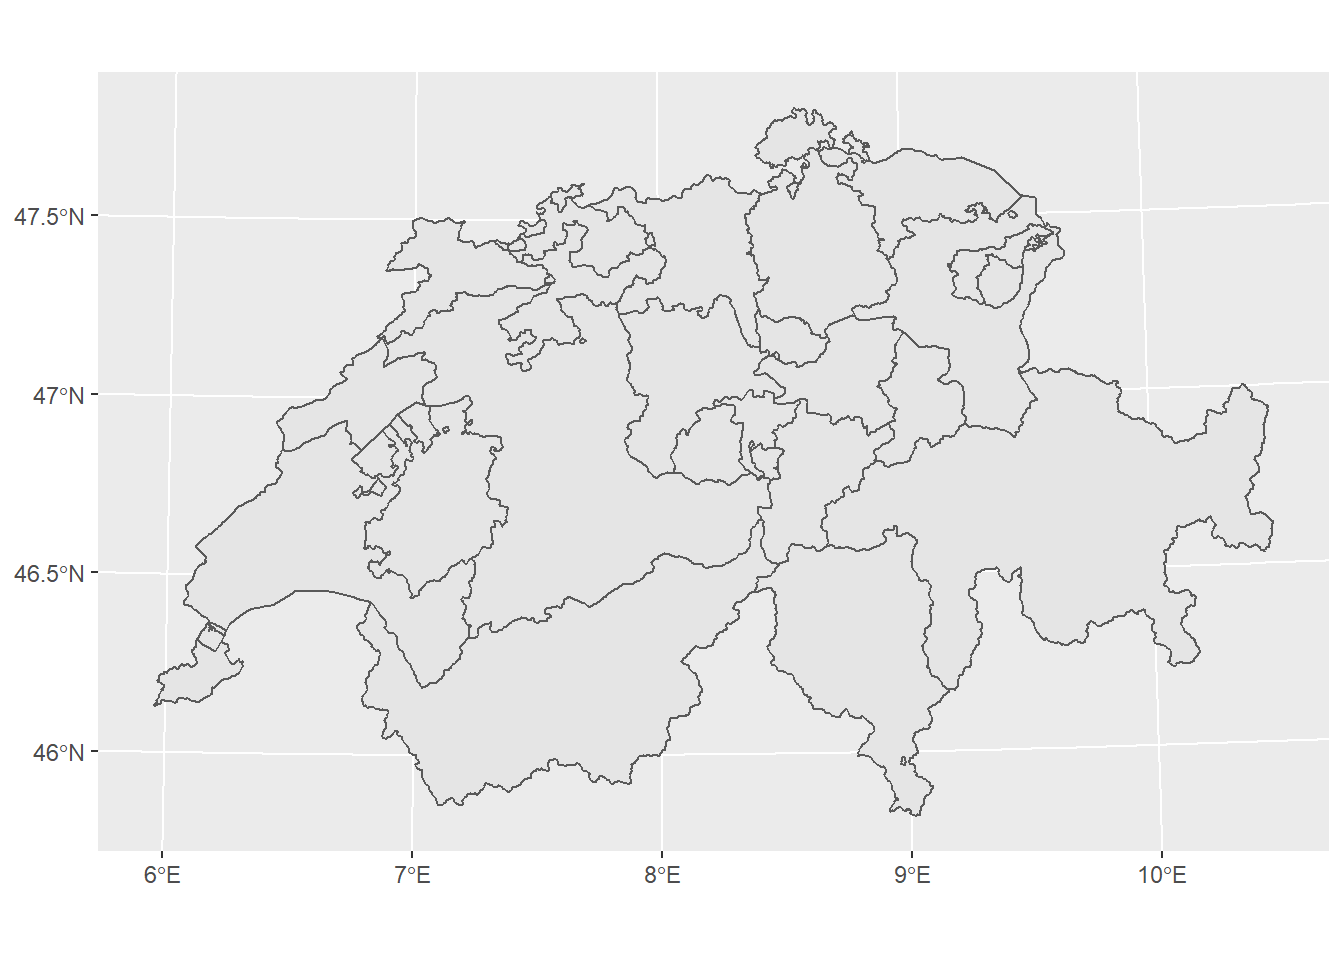
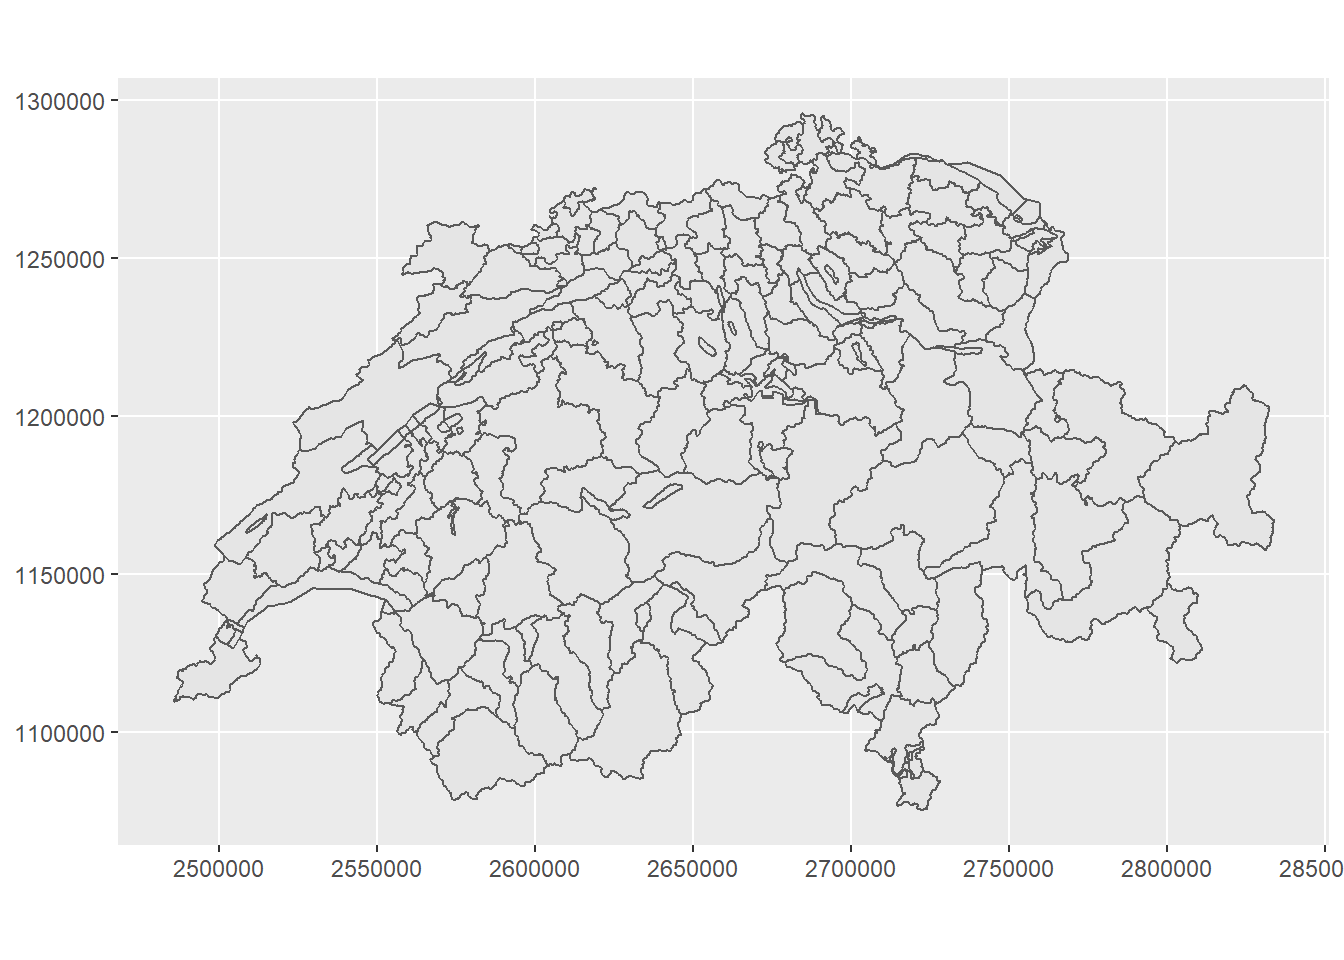
more stuff about crs transformation added

diff --git a/docs/projections-and-transformations-toolset.html b/docs/projections-and-transformations-toolset.html
@@ -238,26 +238,113 @@ action is performed using the following tools:</p>
 <p>The question now is how we can perform similar operations with R.</p>
 <div id="reproject-vector-data-in-r" class="section level3" number="6.2.1">
 <h3><span class="header-section-number">6.2.1</span> Reproject vector data in R</h3>
-<p>For our example we will use the following data.</p>
+<p>For our example we will use the following dataset.</p>
 <ul>
-<li><strong>kantone.gpkg</strong>: Dataset that depicts the Cantonal structure in Switzerland</li>
-<li><strong>bezirke.gpkg</strong>: Dataset that depicts the Municipal structure in Switzerland</li>
+<li><strong>bezirke.gpkg</strong> -&gt; Dataset that depicts the Municipal structure in Switzerland</li>
 </ul>
 <p><strong>R</strong> and more specifically <strong>sf package</strong> offers options (functions) not only for
 transforming the coordinate system of a dataset, but also for identifying the
 current existing one. Let’s dive in :)</p>
-<div class="sourceCode" id="cb83"><pre class="sourceCode r"><code class="sourceCode r"><span id="cb83-1"><a href="projections-and-transformations-toolset.html#cb83-1" aria-hidden="true" tabindex="-1"></a><span class="co"># Importing the datasets</span></span>
+<div class="sourceCode" id="cb83"><pre class="sourceCode r"><code class="sourceCode r"><span id="cb83-1"><a href="projections-and-transformations-toolset.html#cb83-1" aria-hidden="true" tabindex="-1"></a><span class="co"># Importing the dataset</span></span>
 <span id="cb83-2"><a href="projections-and-transformations-toolset.html#cb83-2" aria-hidden="true" tabindex="-1"></a><span class="fu">library</span>(sf)</span>
-<span id="cb83-3"><a href="projections-and-transformations-toolset.html#cb83-3" aria-hidden="true" tabindex="-1"></a>kantone <span class="ot">&lt;-</span> <span class="fu">read_sf</span>(<span class="st">&quot;sample_data/other/kantone.gpkg&quot;</span>)</span>
-<span id="cb83-4"><a href="projections-and-transformations-toolset.html#cb83-4" aria-hidden="true" tabindex="-1"></a>bezirke <span class="ot">&lt;-</span> <span class="fu">read_sf</span>(<span class="st">&quot;sample_data/other/bezirke.gpkg&quot;</span>) </span></code></pre></div>
-<div class="sourceCode" id="cb84"><pre class="sourceCode r"><code class="sourceCode r"><span id="cb84-1"><a href="projections-and-transformations-toolset.html#cb84-1" aria-hidden="true" tabindex="-1"></a><span class="co"># Visualising the data - Cantons</span></span>
+<span id="cb83-3"><a href="projections-and-transformations-toolset.html#cb83-3" aria-hidden="true" tabindex="-1"></a>bezirke <span class="ot">&lt;-</span> <span class="fu">read_sf</span>(<span class="st">&quot;sample_data/other/bezirke.gpkg&quot;</span>) </span></code></pre></div>
+<div class="sourceCode" id="cb84"><pre class="sourceCode r"><code class="sourceCode r"><span id="cb84-1"><a href="projections-and-transformations-toolset.html#cb84-1" aria-hidden="true" tabindex="-1"></a><span class="co"># Visualising the imported dataset</span></span>
 <span id="cb84-2"><a href="projections-and-transformations-toolset.html#cb84-2" aria-hidden="true" tabindex="-1"></a><span class="fu">library</span>(ggplot2)</span>
-<span id="cb84-3"><a href="projections-and-transformations-toolset.html#cb84-3" aria-hidden="true" tabindex="-1"></a><span class="fu">ggplot</span>() <span class="sc">+</span> <span class="fu">geom_sf</span>(<span class="at">data =</span> kantone)</span></code></pre></div>
+<span id="cb84-3"><a href="projections-and-transformations-toolset.html#cb84-3" aria-hidden="true" tabindex="-1"></a><span class="fu">ggplot</span>() <span class="sc">+</span> <span class="fu">geom_sf</span>(<span class="at">data =</span> bezirke)</span></code></pre></div>
 <p><img src="_main_files/figure-html/unnamed-chunk-50-1.png" width="672" /></p>
-<div class="sourceCode" id="cb85"><pre class="sourceCode r"><code class="sourceCode r"><span id="cb85-1"><a href="projections-and-transformations-toolset.html#cb85-1" aria-hidden="true" tabindex="-1"></a><span class="co"># Visualising the data - Bezirke</span></span>
-<span id="cb85-2"><a href="projections-and-transformations-toolset.html#cb85-2" aria-hidden="true" tabindex="-1"></a><span class="fu">library</span>(ggplot2)</span>
-<span id="cb85-3"><a href="projections-and-transformations-toolset.html#cb85-3" aria-hidden="true" tabindex="-1"></a><span class="fu">ggplot</span>() <span class="sc">+</span> <span class="fu">geom_sf</span>(<span class="at">data =</span> bezirke)</span></code></pre></div>
-<p><img src="_main_files/figure-html/unnamed-chunk-51-1.png" width="672" /></p>
+<p>In order to identify the current coordinate system of a dataset, <strong>sf package</strong>
+offers the function <em>st_crs</em>. The main usage of the function is to retrieve the
+coordinate reference system from an sf object.</p>
+<div class="sourceCode" id="cb85"><pre class="sourceCode r"><code class="sourceCode r"><span id="cb85-1"><a href="projections-and-transformations-toolset.html#cb85-1" aria-hidden="true" tabindex="-1"></a><span class="co"># retrieving the coordinate of the imported layer</span></span>
+<span id="cb85-2"><a href="projections-and-transformations-toolset.html#cb85-2" aria-hidden="true" tabindex="-1"></a><span class="fu">st_crs</span>(bezirke)</span></code></pre></div>
+<pre><code>## Coordinate Reference System: NA</code></pre>
+<p>As an output we received that there is no assigned coordinate system to this
+specific dataset. <em>st_set_crs</em> function helps us assigning a coordinate system
+to a dataset.</p>
+<div class="sourceCode" id="cb87"><pre class="sourceCode r"><code class="sourceCode r"><span id="cb87-1"><a href="projections-and-transformations-toolset.html#cb87-1" aria-hidden="true" tabindex="-1"></a><span class="co"># Assigning the World Geodetic System (WGS84) as a coordinate system to our dataset</span></span>
+<span id="cb87-2"><a href="projections-and-transformations-toolset.html#cb87-2" aria-hidden="true" tabindex="-1"></a>bezirke <span class="ot">&lt;-</span> <span class="fu">st_set_crs</span>(bezirke, <span class="dv">4326</span>)</span></code></pre></div>
+<p>In the function above, the number 4326 represents the <strong>EPSG Geodetic Parameter Dataset (EPSG)</strong>
+of the respective coordinate system. <strong>EPSG</strong> is a public registry of geodetic
+datums, spatial reference systems, Earth ellipsoids, coordinate transformations
+and related units of measurement.</p>
+<div class="sourceCode" id="cb88"><pre class="sourceCode r"><code class="sourceCode r"><span id="cb88-1"><a href="projections-and-transformations-toolset.html#cb88-1" aria-hidden="true" tabindex="-1"></a><span class="fu">st_crs</span>(bezirke)</span></code></pre></div>
+<pre><code>## Coordinate Reference System:
+##   User input: EPSG:4326 
+##   wkt:
+## GEOGCRS[&quot;WGS 84&quot;,
+##     DATUM[&quot;World Geodetic System 1984&quot;,
+##         ELLIPSOID[&quot;WGS 84&quot;,6378137,298.257223563,
+##             LENGTHUNIT[&quot;metre&quot;,1]]],
+##     PRIMEM[&quot;Greenwich&quot;,0,
+##         ANGLEUNIT[&quot;degree&quot;,0.0174532925199433]],
+##     CS[ellipsoidal,2],
+##         AXIS[&quot;geodetic latitude (Lat)&quot;,north,
+##             ORDER[1],
+##             ANGLEUNIT[&quot;degree&quot;,0.0174532925199433]],
+##         AXIS[&quot;geodetic longitude (Lon)&quot;,east,
+##             ORDER[2],
+##             ANGLEUNIT[&quot;degree&quot;,0.0174532925199433]],
+##     USAGE[
+##         SCOPE[&quot;unknown&quot;],
+##         AREA[&quot;World&quot;],
+##         BBOX[-90,-180,90,180]],
+##     ID[&quot;EPSG&quot;,4326]]</code></pre>
+<p>After rerunning the <em>st_crs</em> function, we are getting now that the assigned
+coordinate system of the dataset is World Geodetic System (WGS84).<br />
+As a next, we might want to transform the dataset to the Swiss coordinate system.
+The respective <strong>EPSG</strong> for code for the latest Swiss coordinate system
+(CH1903+LV95) is 2056. For this purpose we use the <em>st_transform</em> function of the <strong>sf package</strong>.</p>
+<div class="sourceCode" id="cb90"><pre class="sourceCode r"><code class="sourceCode r"><span id="cb90-1"><a href="projections-and-transformations-toolset.html#cb90-1" aria-hidden="true" tabindex="-1"></a>bezirke_swiss <span class="ot">&lt;-</span> <span class="fu">st_transform</span>(bezirke, <span class="dv">2056</span>)</span>
+<span id="cb90-2"><a href="projections-and-transformations-toolset.html#cb90-2" aria-hidden="true" tabindex="-1"></a></span>
+<span id="cb90-3"><a href="projections-and-transformations-toolset.html#cb90-3" aria-hidden="true" tabindex="-1"></a><span class="co"># retrieve the coordinate system</span></span>
+<span id="cb90-4"><a href="projections-and-transformations-toolset.html#cb90-4" aria-hidden="true" tabindex="-1"></a><span class="fu">st_crs</span>(bezirke_swiss)</span></code></pre></div>
+<pre><code>## Coordinate Reference System:
+##   User input: EPSG:2056 
+##   wkt:
+## PROJCRS[&quot;CH1903+ / LV95&quot;,
+##     BASEGEOGCRS[&quot;CH1903+&quot;,
+##         DATUM[&quot;CH1903+&quot;,
+##             ELLIPSOID[&quot;Bessel 1841&quot;,6377397.155,299.1528128,
+##                 LENGTHUNIT[&quot;metre&quot;,1]]],
+##         PRIMEM[&quot;Greenwich&quot;,0,
+##             ANGLEUNIT[&quot;degree&quot;,0.0174532925199433]],
+##         ID[&quot;EPSG&quot;,4150]],
+##     CONVERSION[&quot;Swiss Oblique Mercator 1995&quot;,
+##         METHOD[&quot;Hotine Oblique Mercator (variant B)&quot;,
+##             ID[&quot;EPSG&quot;,9815]],
+##         PARAMETER[&quot;Latitude of projection centre&quot;,46.9524055555556,
+##             ANGLEUNIT[&quot;degree&quot;,0.0174532925199433],
+##             ID[&quot;EPSG&quot;,8811]],
+##         PARAMETER[&quot;Longitude of projection centre&quot;,7.43958333333333,
+##             ANGLEUNIT[&quot;degree&quot;,0.0174532925199433],
+##             ID[&quot;EPSG&quot;,8812]],
+##         PARAMETER[&quot;Azimuth of initial line&quot;,90,
+##             ANGLEUNIT[&quot;degree&quot;,0.0174532925199433],
+##             ID[&quot;EPSG&quot;,8813]],
+##         PARAMETER[&quot;Angle from Rectified to Skew Grid&quot;,90,
+##             ANGLEUNIT[&quot;degree&quot;,0.0174532925199433],
+##             ID[&quot;EPSG&quot;,8814]],
+##         PARAMETER[&quot;Scale factor on initial line&quot;,1,
+##             SCALEUNIT[&quot;unity&quot;,1],
+##             ID[&quot;EPSG&quot;,8815]],
+##         PARAMETER[&quot;Easting at projection centre&quot;,2600000,
+##             LENGTHUNIT[&quot;metre&quot;,1],
+##             ID[&quot;EPSG&quot;,8816]],
+##         PARAMETER[&quot;Northing at projection centre&quot;,1200000,
+##             LENGTHUNIT[&quot;metre&quot;,1],
+##             ID[&quot;EPSG&quot;,8817]]],
+##     CS[Cartesian,2],
+##         AXIS[&quot;(E)&quot;,east,
+##             ORDER[1],
+##             LENGTHUNIT[&quot;metre&quot;,1]],
+##         AXIS[&quot;(N)&quot;,north,
+##             ORDER[2],
+##             LENGTHUNIT[&quot;metre&quot;,1]],
+##     USAGE[
+##         SCOPE[&quot;unknown&quot;],
+##         AREA[&quot;Europe - Liechtenstein and Switzerland&quot;],
+##         BBOX[45.82,5.96,47.81,10.49]],
+##     ID[&quot;EPSG&quot;,2056]]</code></pre>
 </div>
 <div id="reproject-raster-data-in-r" class="section level3" number="6.2.2">
 <h3><span class="header-section-number">6.2.2</span> Reproject raster data in R</h3>
